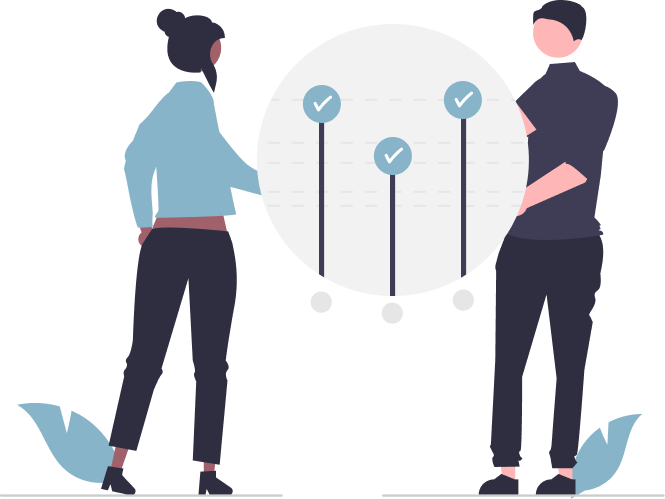
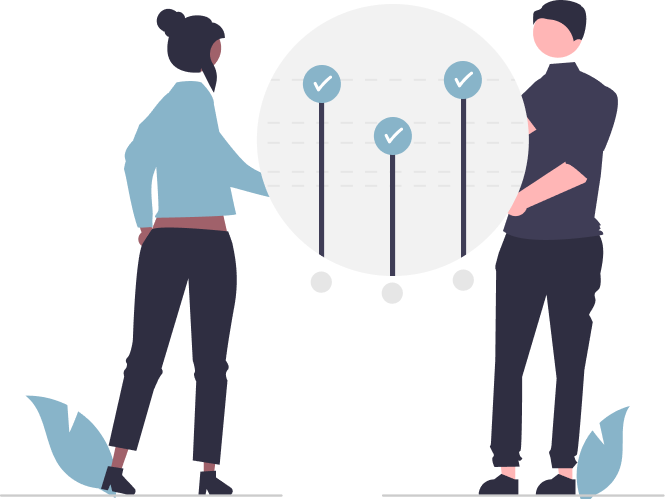
flow 4 is completed

diff --git a/src/pages/page4/Page4.js b/src/pages/page4/Page4.js
@@ -2,8 +2,8 @@ import React from 'react';
 import { motion } from "framer-motion"
 import image1 from '../../assets/image.gif'
 import image3 from '../../assets/image10.png'
-import image4 from '../../assets/undraw.png'
-import image5 from '../../assets/goals.png'
+import image4 from '../../assets/undraw.gif'
+import image5 from '../../assets/goals.gif'
 import Grid from '@mui/material/Grid';
 import './page4.css'
 
@@ -12,7 +12,7 @@ const Page4 = () => {
     return (
 
 
-        <div className="page2Main" style={{height:"200vh", display:"flex", alignItems:"center",justifyContent:"center", flexDirection:"column", top:"0px"}}>
+        <div className="page2Main" style={{height:"100vh", display:"flex", alignItems:"center",justifyContent:"flex-start", flexDirection:"column"}}>
 
             {/* first task start */}
             <motion.div
@@ -20,7 +20,7 @@ const Page4 = () => {
                 whileInView={{
                     opacity:0,
                 }}  
-                transition={{ delay:5, duration:3 }}
+                transition={{ delay:3, duration:3 }}
                 viewport={{once:true}}
                 >
                 
@@ -66,7 +66,7 @@ const Page4 = () => {
                       display: "none",
                     },
                 }}
-                transition={{ delay:11,duration:4}}
+                transition={{ delay:5,duration:4}}
                 viewport={{once:true}}
                 >
                     <div >
@@ -121,7 +121,7 @@ const Page4 = () => {
                 whileInView={{
                     opacity:1,
                 }}
-                transition={{ delay:20,duration:4}}
+                transition={{ delay:4,duration:1}}
                 viewport={{once:true}}
                 >
                     <div >

diff --git a/src/App.js b/src/App.js
@@ -21,7 +21,7 @@ function App() {
     <ThemeProvider theme={darkTheme}>
       <CssBaseline/>
       <div className="App" >
-        <Paper style={{height:"100%"}} >
+        <Paper style={{height:"100%", display:"flex", flexDirection:"column"}} >
             <Page1/> 
             <Page2/>
             <Page3/>
